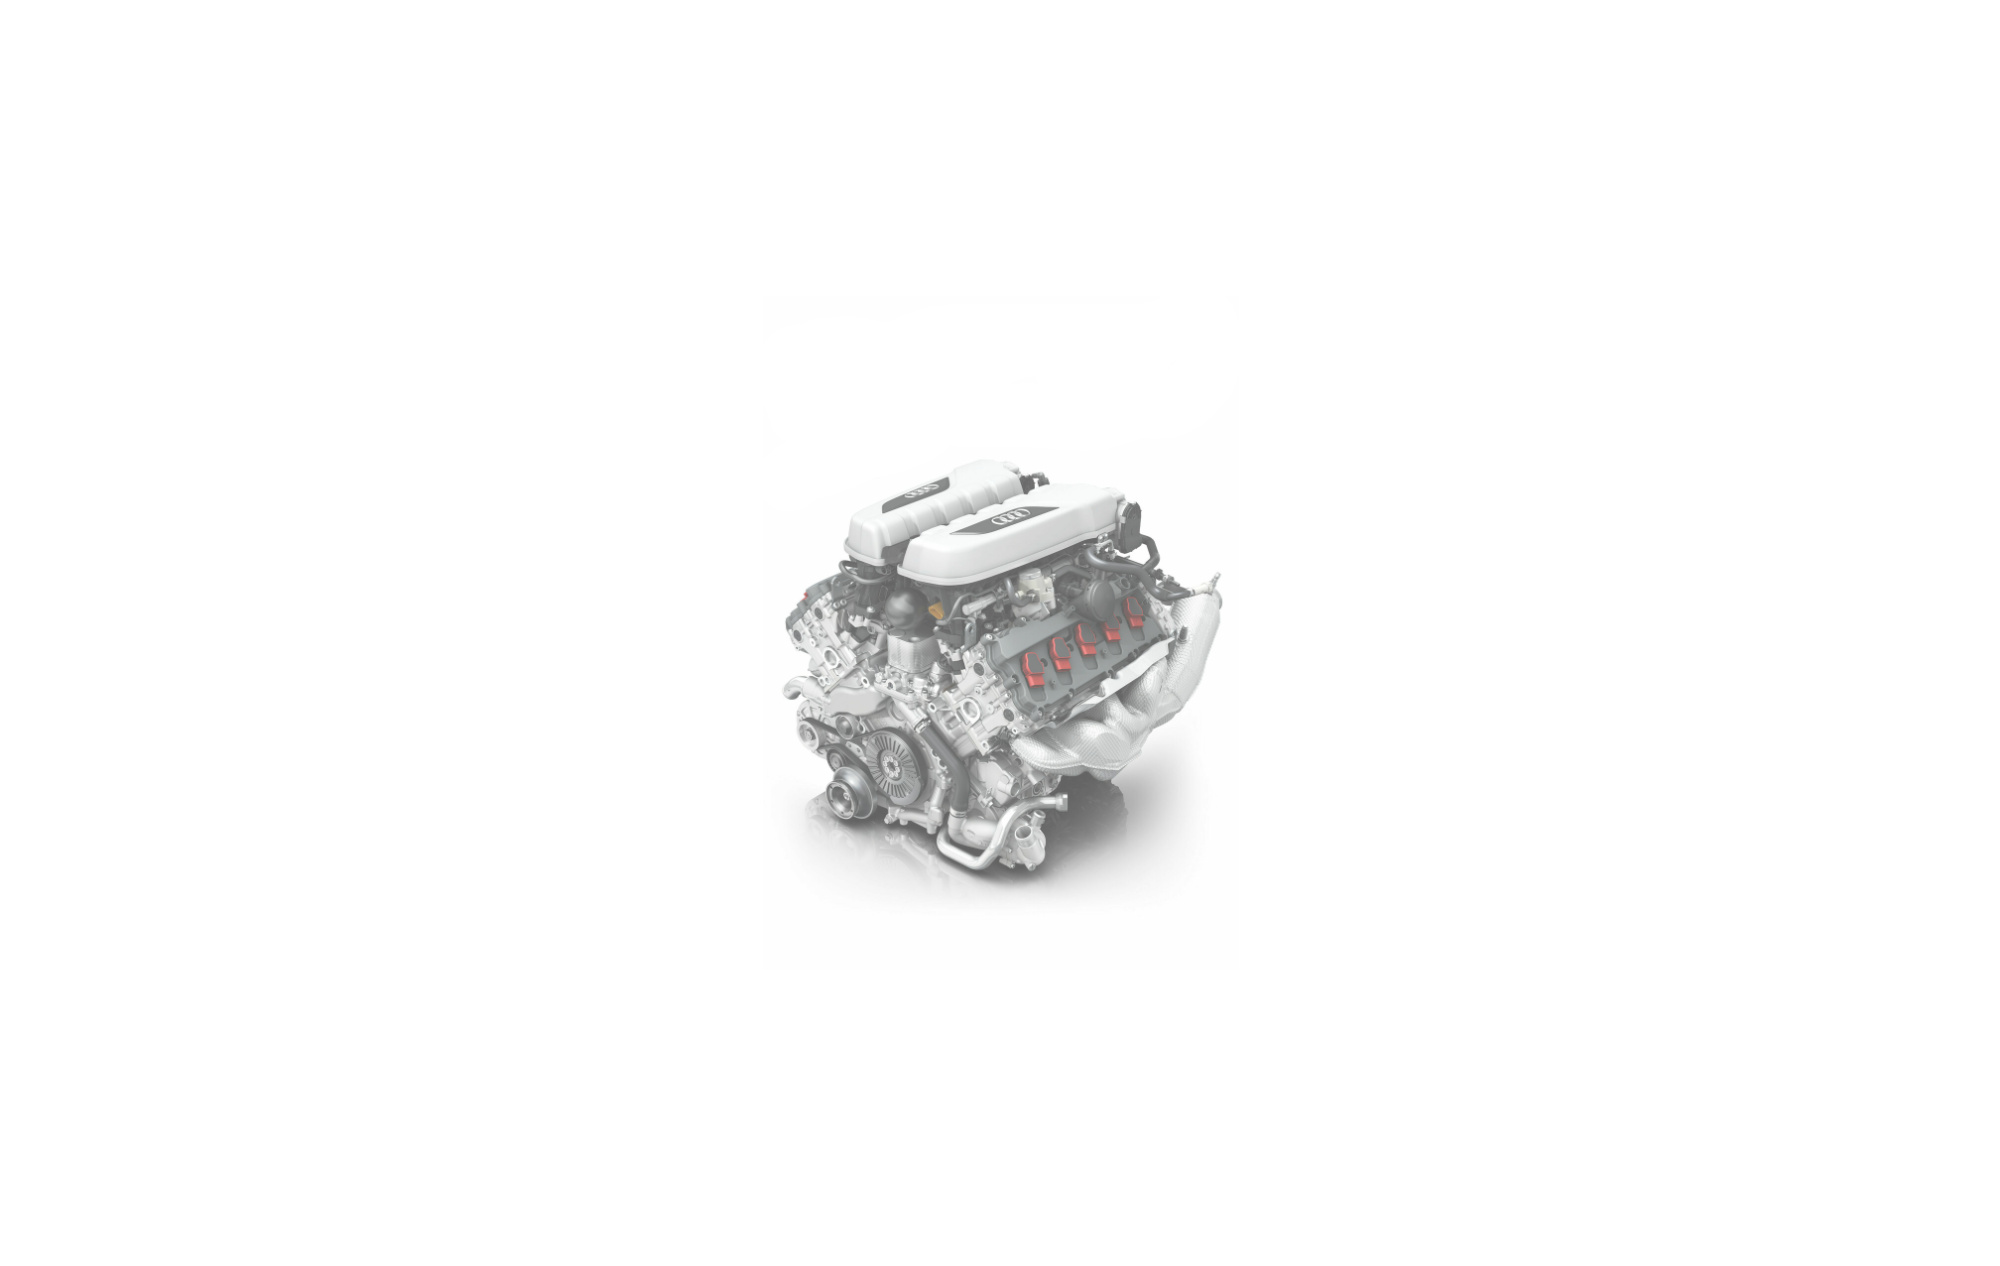
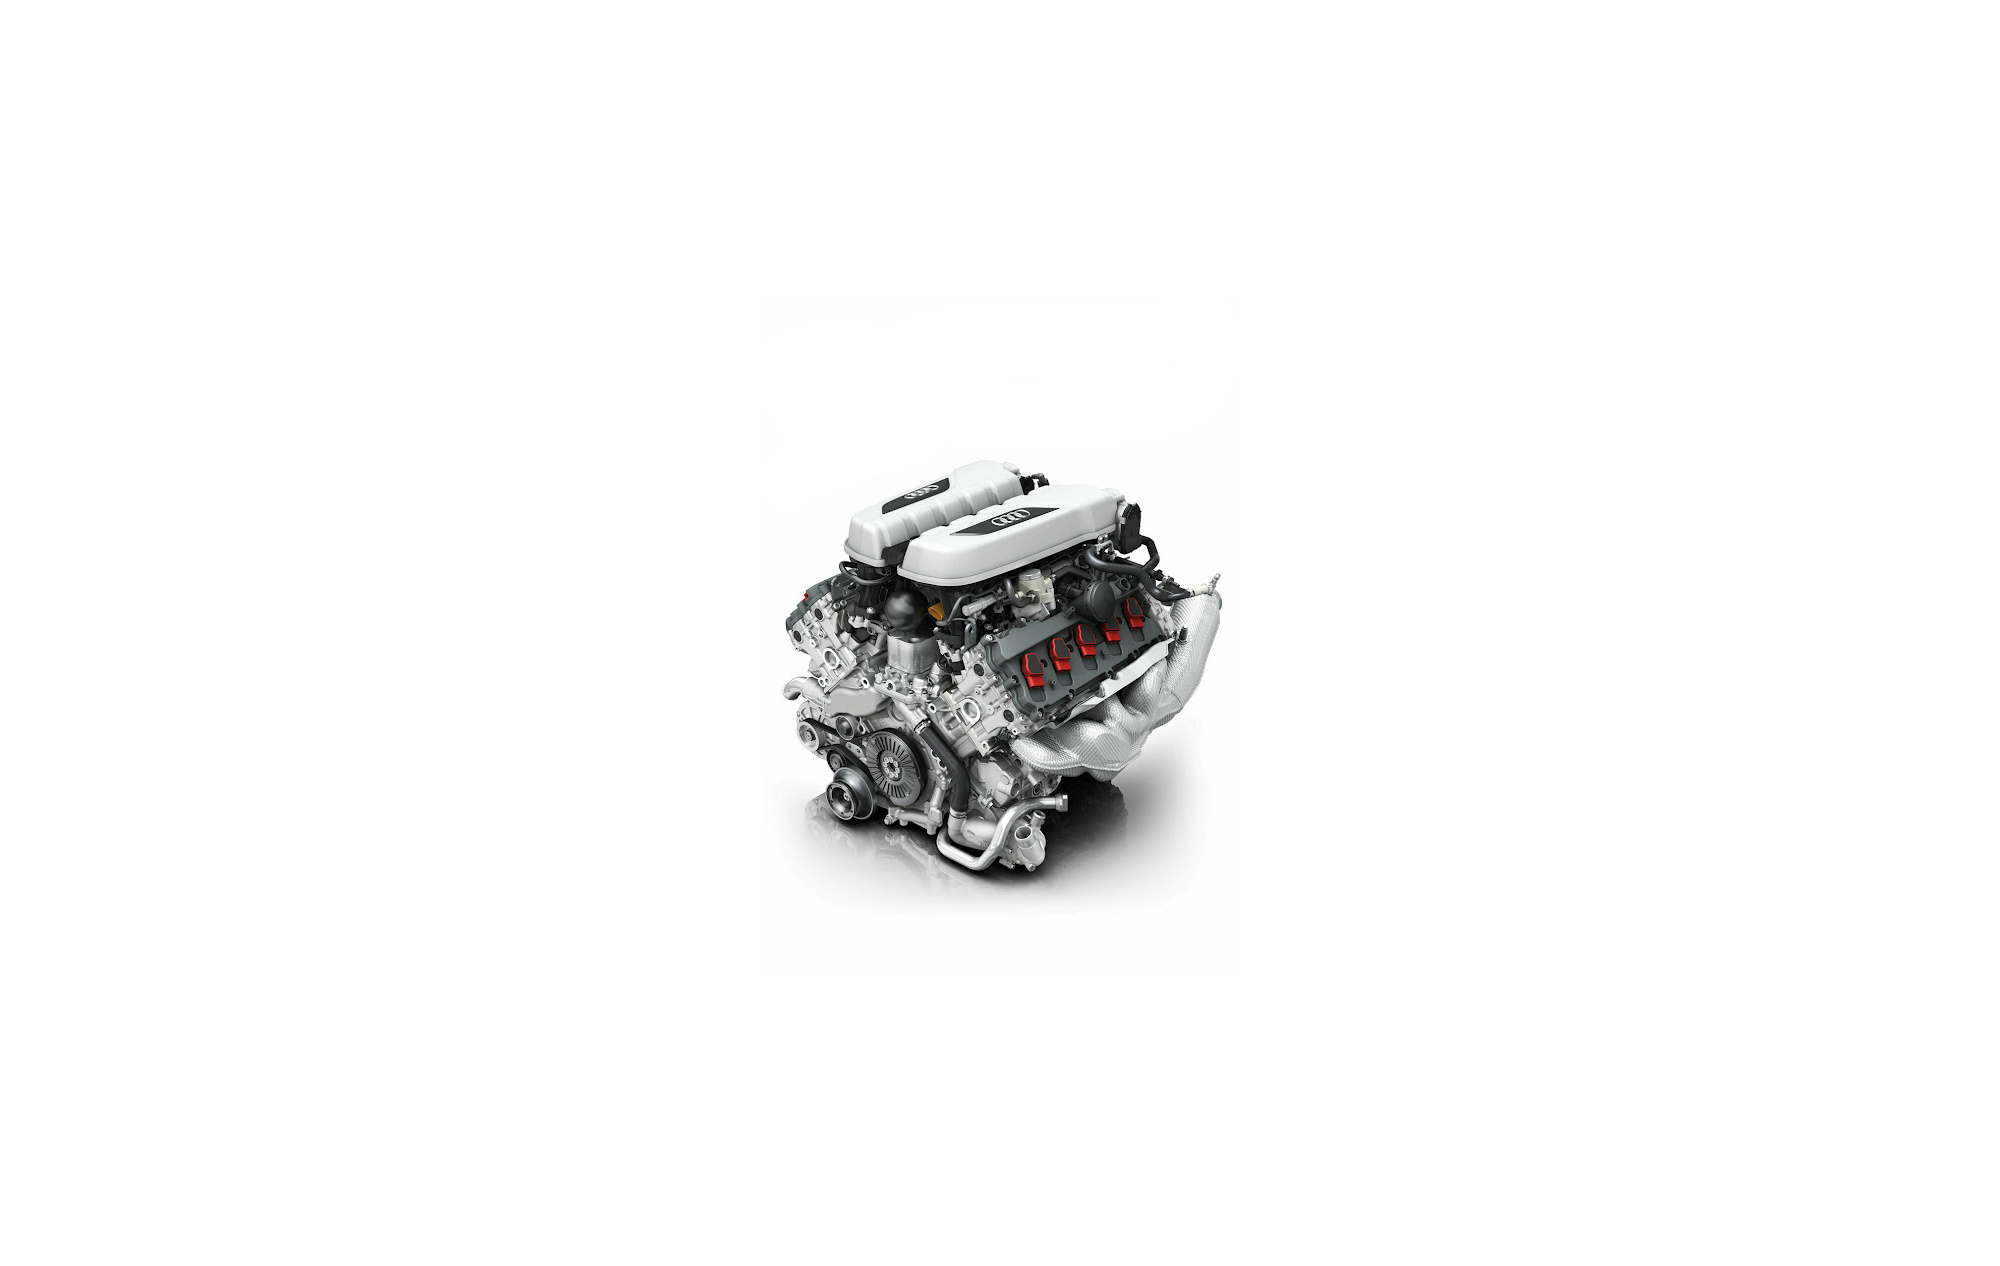
Added background image to the About and Contact pages, and added more breakpoint customizations to the engine section on the product page

Changed region(s): [[0.372, 0.3697, 0.62, 0.7085]]

diff --git a/css/styles.css b/css/styles.css
@@ -780,6 +780,13 @@ footer i {
     background-position: center;
 }
 
+.about, .contact {
+    background-image: url("../img/audi-spyder-and-coupe-faded.jpg");
+    background-size: cover;
+    background-attachment: fixed;
+    background-position: center;
+}
+
 .about h1, .contact h1 {
     color: #f4f4f4;
     font-size: 150px;
@@ -838,7 +845,7 @@ footer i {
 
 .contact-form {
     margin: 50px 30px 130px 30px;
-    background-color: #ececec;
+    background-color: #e1e1e1;
     padding: 50px 20px;
     display: flex;
     flex-direction: column;
@@ -864,7 +871,7 @@ footer i {
     width: 100px;
     cursor: pointer;
     transition: 0.5s ease all;
-    background-color: #d7d7d7;
+    background-color: #c9c7c7;
     letter-spacing: 1px;
     text-align: center;
     color: #0e0e0e;
@@ -875,7 +882,7 @@ footer i {
 }
 
 .contact-form button:hover {
-    background-color: #cccccc;
+    background-color: #e1e1e1;
 }
 
 .product-masthead {
@@ -986,9 +993,9 @@ table {
 }
 
 .engine {
-    height: 100vh;
+    height: 90vh;
     /* image source: https://www.audi-mediacenter.com/en/photos/detail/audi-r8-v10-21605 */
-    background-image: url("../img/audi-r8-engine.jpg");
+    background-image: url("../img/audi-r8-engine-faded.jpg");
     background-attachment: fixed;
     background-position: center;
     background-size: cover;
@@ -1008,13 +1015,24 @@ table {
             -1px  1px 0 #fff, /* Bottom left */
             1px  1px 0 #fff; /* Bottom right */
     text-align: center;
-    line-height: 35px;
     max-width: 800px;
 }
 
 .engine h2 {
     font-size: 50px;
     margin-bottom: 65px;
+}
+
+.engine h3 {
+    line-height: 35px;
+}
+
+.coupe-and-spyder-block {
+    /* source: https://www.audi-mediacenter.com/en/photos/detail/audi-r8-v10-rwd-coupe-audi-r8-v10-rwd-spyder-86612  */
+    background-image: url("../img/audi-coupe-and-spyder.jpeg");
+    background-size: cover;
+    background-position: center;
+    height: 500px;
 }
 
 /* MEDIA QUERIES */
@@ -1239,8 +1257,16 @@ table {
     }
 
     /* disable parallax on mobile */
-    .close-up-wheel, .close-up-logo {
+    .close-up-wheel, .close-up-logo, .engine, .product-img-block, .about, .contact {
         background-attachment: scroll;
+    }
+
+    .engine {
+        justify-content: space-between;
+        padding-top: 135px;
+        padding-bottom: 145px;
+        background-image: url("../img/audi-r8-engine-lg.jpg");
+        background-position-y: -60px;
     }
 
     .inventory-btn-container, .product-btn-container  {
@@ -1342,6 +1368,11 @@ table {
     .product-masthead h1 span {
         margin-bottom: 3px;
     }
+
+    .engine {
+        padding-top: 80px;
+        padding-bottom: 90px;
+    }
 }
 
 @media screen and (max-width: 630px) {
@@ -1422,6 +1453,12 @@ table {
     .specs-details small {
         margin-top: 50px;
         font-size: 16px;
+    }
+
+    .engine {
+        background-image: url("../img/audi-r8-engine.jpg");
+        padding-top: 50px;
+        padding-bottom: 50px;
     }
 }
 
@@ -1548,6 +1585,16 @@ table {
     .contact-form textarea, .contact-form input {
         width: 170px;
     }
+
+    .engine {
+        background-position-y: -75px;
+    }
+}
+
+@media screen and (max-width: 385px) {
+    .engine {
+        background-position-y: -95px;
+    }
 }
 
 @media screen and (max-width: 360px) {
@@ -1614,6 +1661,13 @@ table {
 
     .timeline-element p {
         font-size: 15px;
+    }
+}
+
+
+@media screen and (max-width: 330px) {
+    .engine {
+        background-position-y: -100px;
     }
 }
 

diff --git a/contact.html b/contact.html
@@ -56,6 +56,7 @@
     <section class="contact-audi">
         <h2>Questions or comments?</h2>
         <p>Please use the contact form below to contact us</p>
+        <!-- Not a functional form, just for design purposes -->
         <form id="contact-form-audi" class="contact-form" action="contact.html" enctype="multipart/form-data">
             <fieldset>
                 <label for="name-input">Name: </label>

diff --git a/product.html b/product.html
@@ -172,7 +172,7 @@
         <h3>The AWD model boasts a robust 602HP, 413 lb-ft torque from its 5.2L V-10 engine, while the RWD version offers 562HP, 406 lb-ft torque. Both feature a standard 7-speed S-tronic gearbox.</h3>
     </section>
 
-    <section></section>
+    <section class="coupe-and-spyder-block"></section>
 
 </main>
 <footer>
